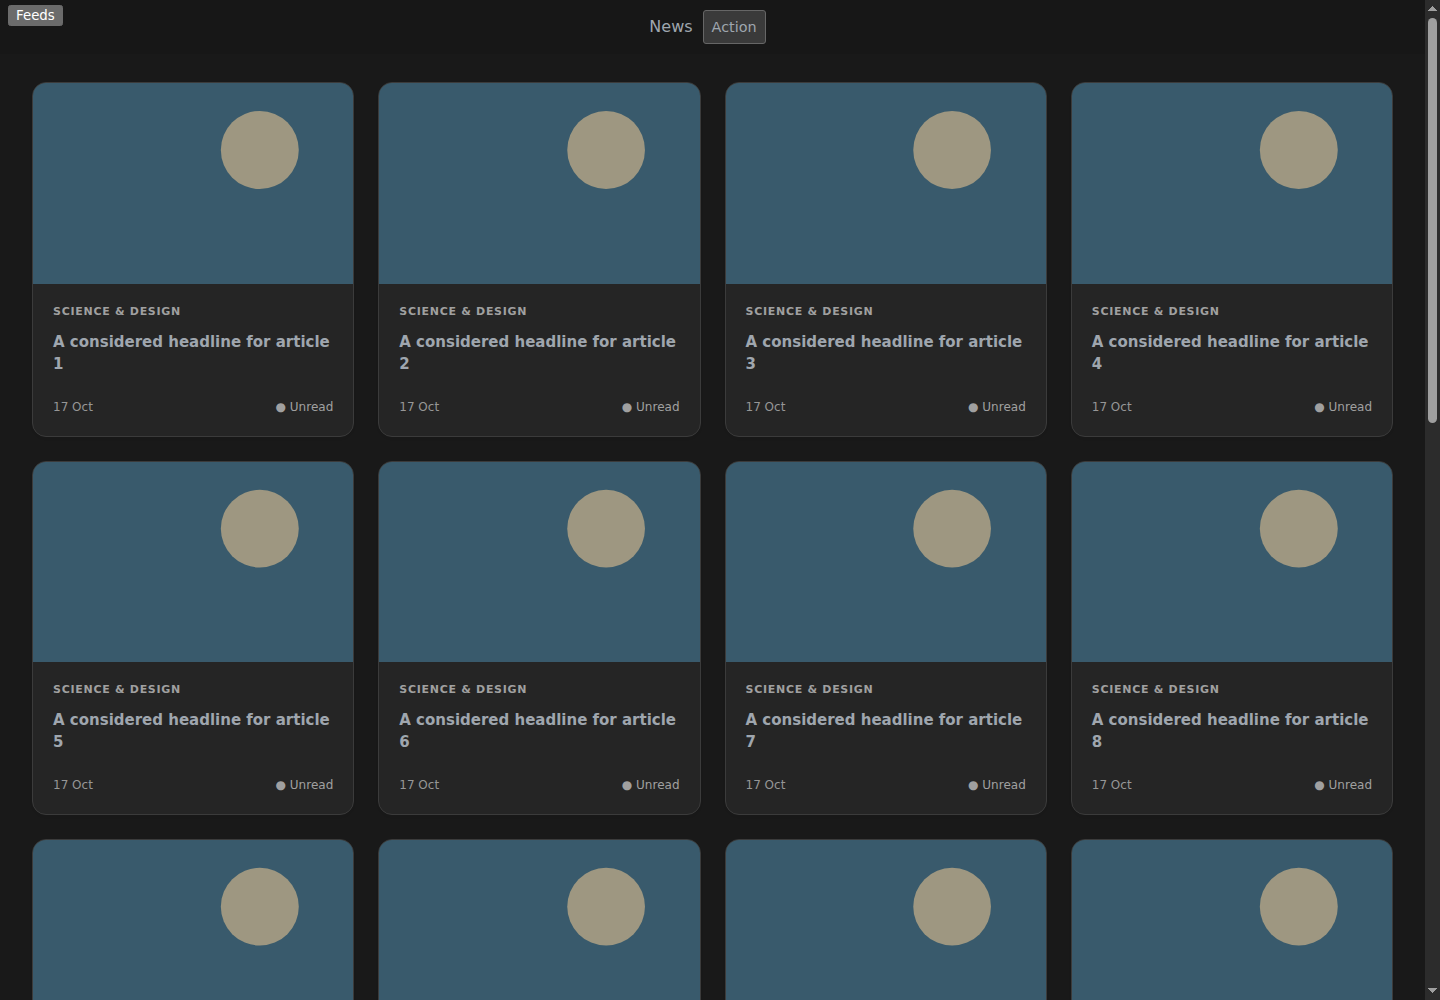
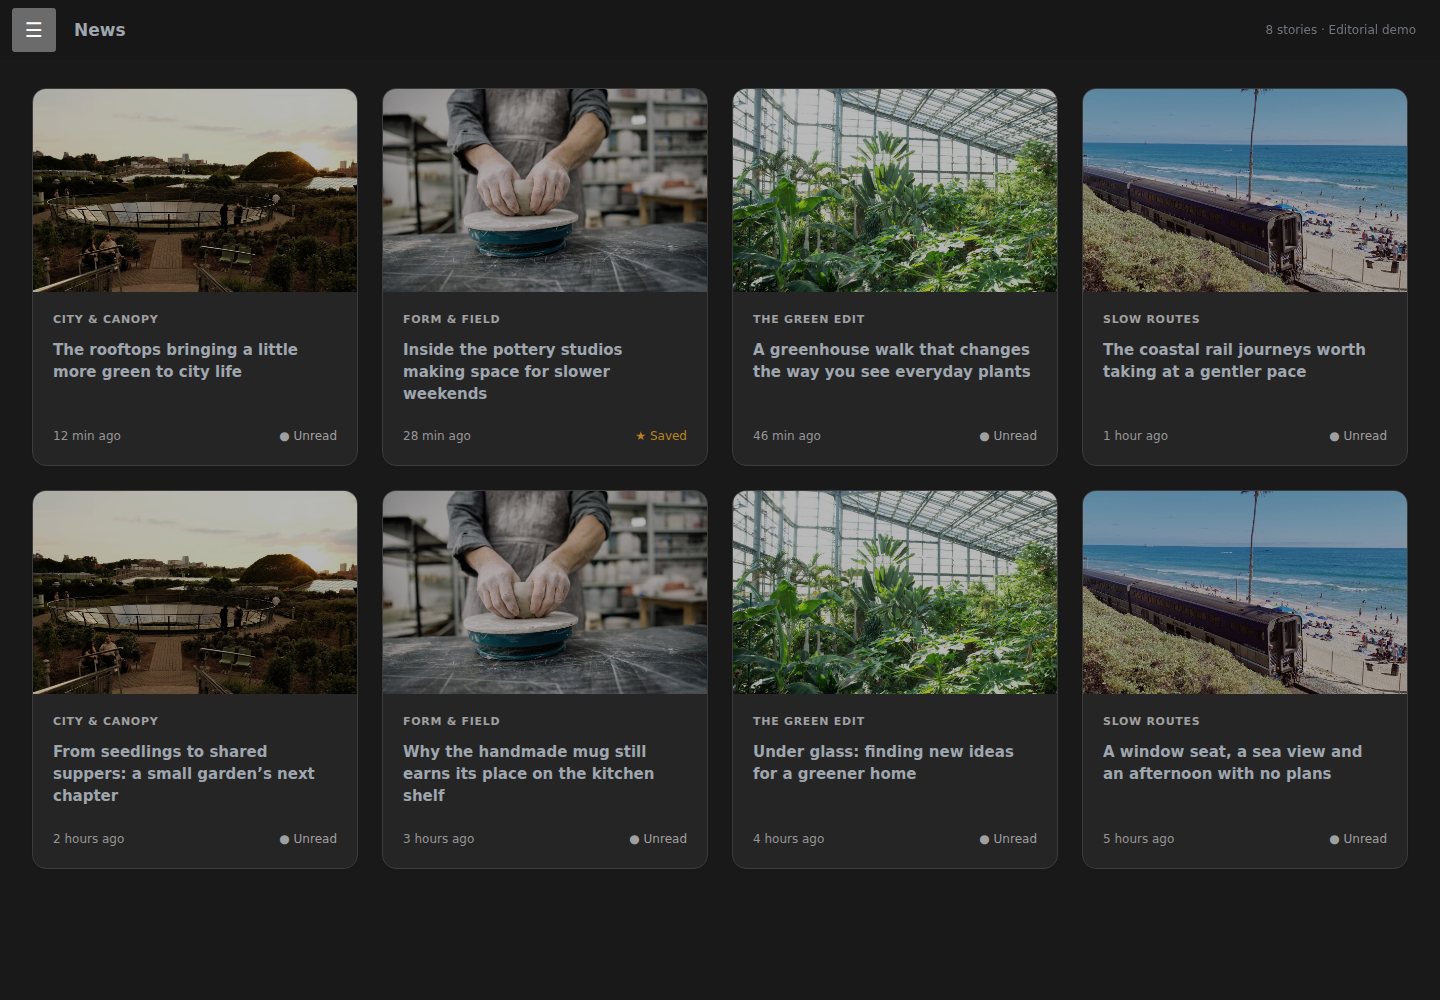
Add editorial demo photos and mobile grid screenshots

diff --git a/docs/demo/demo.js b/docs/demo/demo.js
@@ -1,0 +1,44 @@
+/* Fictional editorial demo. Real extension and native FreshRSS handlers. */
+function initDemo() {
+ const stream = document.querySelector('#stream');
+ const text = (tag, value, className) => {
+  const node = document.createElement(tag); node.textContent = value;
+  if (className) node.className = className; return node;
+ };
+ for (const story of window.demoArticles) {
+  const entry = document.createElement('div');
+  entry.className = 'flux not_read' + (story.id === 2 ? ' favorite' : '');
+  entry.id = 'flux_' + story.id;
+  entry.dataset.entry = story.id;
+  entry.dataset.link = 'https://example.invalid/story/' + story.id;
+  const header = document.createElement('ul'); header.className = 'horizontal-list flux_header';
+  header.dataset.websiteName = story.source;
+  const titleItem = document.createElement('li'); titleItem.className = 'item titleAuthorSummaryDate';
+  const link = text('a', story.title, 'item-element title'); link.href = entry.dataset.link;
+  titleItem.append(link); header.append(titleItem);
+  const content = document.createElement('article'); content.className = 'flux_content';
+  const inner = document.createElement('div'); inner.className = 'content';
+  const readerHeader = document.createElement('header');
+  readerHeader.append(text('div', story.source + ' · ' + story.date, 'website'));
+  const h1 = document.createElement('h1'); h1.className = 'title';
+  const original = text('a', story.title, 'go_website'); original.href = entry.dataset.link;
+  h1.append(original); readerHeader.append(h1);
+  const body = document.createElement('div'); body.className = 'text';
+  const meta = document.createElement('span'); meta.className = 'ig-entry-meta'; meta.hidden = true;
+  Object.assign(meta.dataset, {source: story.source, image: '/demo/images/' + story.image,
+   imageWidth: '1280', date: story.date, datetime: '2026-10-17T10:00:00Z'});
+  const image = document.createElement('img'); image.src = meta.dataset.image;
+  image.alt = 'Illustrative stock photograph; see demo photo credits';
+  body.append(meta, image, ...story.paragraphs.map(p => text('p', p)));
+  inner.append(readerHeader, body); content.append(inner);
+  const footer = document.createElement('footer');
+  const read = text('a', 'Mark read', 'read'); read.href = '/?c=entry&a=read&id=' + story.id;
+  footer.append(read); content.append(footer);
+  entry.append(header, content); stream.append(entry);
+ }
+ init_stream(stream);
+ document.querySelector('#nav_menu_toggle_aside button').onclick = () => toggle_aside_click();
+ document.dispatchEvent(new Event('freshrss:globalContextLoaded'));
+}
+if (document.readyState === 'loading') document.addEventListener('DOMContentLoaded', initDemo);
+else initDemo();

diff --git a/tests/browser.py b/tests/browser.py
@@ -107,6 +107,24 @@ assets = {
 <nav id="nav_entries"><button class="previous_entry">Left</button><button class="up">Up</button><button class="next_entry">Right</button></nav>
 </body></html>''')
 }
+# Editorial screenshots are separate from the deliberately minimal test fixture.
+if '--screenshots' in sys.argv:
+    demo = ROOT / 'docs/demo'
+    demo_core = setup[:setup.index('function article(id)')] + native
+    assets['/demo-core.js'] = ('text/javascript', demo_core.encode())
+    assets['/demo.js'] = ('text/javascript', (
+        'window.demoArticles=' + (demo / 'articles.json').read_text() + ';\n' +
+        (demo / 'demo.js').read_text()).encode())
+    for photo in (demo / 'images').glob('*.jpg'):
+        assets['/demo/images/' + photo.name] = ('image/jpeg', photo.read_bytes())
+    assets['/demo'] = ('text/html', assets['/'][1]
+        .replace(b'<script defer src="/native.js"></script>',
+                 b'<script defer src="/demo-core.js"></script><script defer src="/demo.js"></script>')
+        .replace(b'<button>Feeds</button>', b'<button aria-label="Open feed navigation">&#9776;</button>')
+        .replace(b'<button class="btn btn-important fixture-native-action">Action</button>',
+                 b'<span class="demo-label">8 stories &middot; Editorial demo</span>')
+        .replace(b'</head>', b'<style>.nav_menu {display:flex;align-items:center;gap:18px;min-height:60px;box-sizing:border-box}.demo-label {margin-left:auto;font:12px system-ui;opacity:.65;padding-right:12px}.fixture-native-label {font:650 17px system-ui}.nav_menu #nav_menu_toggle_aside {position:static!important;width:44px;flex:0 0 44px;margin:0}.nav_menu>.fixture-native-label {position:static!important;margin:0}#nav_menu_toggle_aside button {font-size:20px;min-width:44px;min-height:44px}@media(max-width:600px){.demo-label{font-size:10px}.nav_menu{gap:12px}}</style></head>'))
+
 assets['/late'] = (assets['/'][0], assets['/'][1].replace(
     b'<script defer src="/native.js"></script><script defer src="/grid.js"></script>',
     b'<script defer src="/grid.js"></script><script async src="/native-late.js"></script>'))
@@ -219,7 +237,6 @@ try:
     check("getComputedStyle(document.body).backgroundColor==='rgb(25, 25, 25)' && getComputedStyle(document.querySelector('.flux')).backgroundColor==='rgb(37, 37, 37)' && getComputedStyle(document.querySelector('.ig-source')).color==='rgb(160, 160, 160)' && getComputedStyle(document.querySelector('.fixture-native-action')).backgroundColor==='rgb(58, 58, 58)'", 'neutral grey palette renders on surfaces, accents and native actions')
     check("getComputedStyle(document.querySelector('#stream')).gridTemplateColumns.split(' ').length===4", 'four desktop columns with the native FreshRSS theme')
     check("document.documentElement.scrollWidth<=innerWidth", 'desktop has no horizontal overflow')
-    screenshot('desktop.png')
     check("!context.auto_mark_scroll && !context.auto_remove_article", 'page-local scroll/removal protection')
     evaluate("window.scrollTo(0,700); window.beforeY=scrollY; window.contentNode=document.querySelector('#flux_9 > .flux_content'); document.querySelector('#flux_9 .ig-card').click()")
     settle()
@@ -271,8 +288,6 @@ try:
         check("getComputedStyle(document.querySelector('#nav_entries')).display==='none'", f'{width}px native bottom arrow bar stays hidden despite mobile theme override')
         evaluate("document.querySelector('#flux_1 .ig-card').click()")
         settle()
-        if width == 390:
-            screenshot('mobile-reader.png')
         if width <= 600:
             check("Math.abs(document.querySelector('dialog').getBoundingClientRect().width-innerWidth)<2 && Math.abs(document.querySelector('dialog').getBoundingClientRect().height-innerHeight)<2", f'{width}px full-screen reader')
         check("Array.from(document.querySelectorAll('dialog .ig-control')).every(n=>n.getBoundingClientRect().height>=44)", f'{width}px touch target sizes')
@@ -402,6 +417,29 @@ try:
             break
         time.sleep(.05)
     check("document.querySelectorAll('.ig-card').length===24", 'initialisation when asynchronous native core arrives late')
+    if '--screenshots' in sys.argv:
+        command('Fetch.disable')
+        command('Network.enable')
+        command('Network.setBlockedURLs', {'urls': ['https://*', 'http://example.invalid/*']})
+        command('Emulation.setDeviceMetricsOverride', {'width': 1440, 'height': 1000, 'deviceScaleFactor': 1, 'mobile': False})
+        command('Page.navigate', {'url': f'http://127.0.0.1:{server.server_port}/demo'})
+        for _ in range(100):
+            if evaluate("document.querySelectorAll('.ig-card').length===8"):
+                break
+            time.sleep(.05)
+        check("document.querySelectorAll('.ig-card').length===8", 'editorial demo uses eight fictional stories')
+        evaluate("Promise.all([...document.images].map(img=>{img.loading='eager';return img.decode().catch(()=>{});})).then(()=>document.fonts.ready)")
+        check("[...document.querySelectorAll('.ig-media img')].every(img=>img.complete && img.naturalWidth>=1280)", 'four local licensed photos load at full demo resolution')
+        for width, height, filename in [(1440,1000,'desktop.png'), (390,844,'mobile-grid.png'), (430,932,'mobile-grid-wide.png')]:
+            command('Emulation.setDeviceMetricsOverride', {'width': width, 'height': height, 'deviceScaleFactor': 1, 'mobile': width < 600})
+            evaluate('window.scrollTo(0,0)')
+            settle()
+            screenshot(filename)
+        command('Emulation.setDeviceMetricsOverride', {'width': 390, 'height': 844, 'deviceScaleFactor': 1, 'mobile': True})
+        evaluate("document.querySelector('#flux_1 .ig-card').click()")
+        settle()
+        check("document.querySelector('dialog[open]') && document.documentElement.scrollWidth<=innerWidth", 'editorial mobile reader opens without overflow')
+        screenshot('mobile-reader.png')
     assert not errors, errors
     print('PASS no browser JavaScript exceptions', flush=True)
 finally:

diff --git a/README.md b/README.md
@@ -2,7 +2,7 @@
 
 A standalone FreshRSS extension that turns **Normal view** into an image-card grid with a focused article reader. Inspired by Inoreader, built with vanilla JavaScript and CSS, and tested against **FreshRSS 1.30.1**.
 
-![Desktop grid with synthetic demo articles](docs/screenshots/desktop.png)
+![Desktop grid with fictional articles and illustrative stock photos](docs/screenshots/desktop.png)
 
 ## Features
 
@@ -18,9 +18,9 @@ A standalone FreshRSS extension that turns **Normal view** into an image-card gr
 - Neutral monogram artwork for image-less articles.
 - Native pagination and dynamically loaded articles, without a framework or build step.
 
-<img src="docs/screenshots/mobile-reader.png" alt="Mobile reader displaying a synthetic demo article" width="300">
+<img src="docs/screenshots/mobile-grid.png" alt="Mobile card list at 390 pixels wide" width="260"> <img src="docs/screenshots/mobile-grid-wide.png" alt="Two-column mobile card list at 430 pixels wide" width="286"> <img src="docs/screenshots/mobile-reader.png" alt="Full-screen mobile article reader" width="260">
 
-Screenshots contain generated demo content, not personal feeds or account data.
+Mobile card lists at two widths, followed by the article reader. Screenshots use fictional articles and four illustrative stock photos. See [photo credits and demo details](docs/demo/README.md). No personal feeds or account data are shown.
 
 ## Requirements
 
@@ -91,7 +91,7 @@ The implementation uses FreshRSS's `entry_before_display` hook, native article-o
 - Cards use existing image URLs and send no page referrer. Those image hosts can still receive ordinary browser requests.
 - Read/bookmark operations continue through the current FreshRSS installation and its native CSRF handling.
 - AI summaries are never triggered automatically. An existing summary extension can still contact its configured provider when you explicitly use it.
-- This repository contains extension source and synthetic test fixtures only. Local backups, user CSS/JS, account data, logs and credentials are excluded.
+- This repository contains extension source, fictional test/demo articles and credited stock photos. Local backups, user CSS/JS, account data, logs and credentials are excluded.
 
 ## Disable or uninstall
 
@@ -125,7 +125,7 @@ python3 -m venv .venv
 
 Set `FRESHRSS_CONTAINER` or `CHROMIUM_BINARY` if your container/executable has a different name. The browser test reads the container's native JavaScript and theme files; it does **not** read user configuration, custom CSS or actual feed contents. A localhost fixture serves synthetic articles, state responses are mocked, and synthetic publisher image requests are fulfilled locally.
 
-Coverage includes read/bookmark request handling, dynamic articles, modal DOM identity, scroll/focus restoration, sidebar controls, touch gestures, mobile layout, image resolution and error fallback. Pass `--screenshots` to regenerate the demo screenshots from those fixtures.
+Coverage includes read/bookmark request handling, dynamic articles, modal DOM identity, scroll/focus restoration, sidebar controls, touch gestures, mobile layout, image resolution and error fallback. Pass `--screenshots` to regenerate screenshots from the separate [editorial demo](docs/demo/README.md) after the tests pass.
 
 ## Known limits
 
@@ -136,4 +136,4 @@ Coverage includes read/bookmark request handling, dynamic articles, modal DOM id
 
 ## Licence
 
-[MIT](LICENSE). This is an independent community extension, unaffiliated with Inoreader or FreshRSS.
+Extension code and original demo text: [MIT](LICENSE). Bundled stock photos and photographic material in screenshots retain the [Pexels licence](https://www.pexels.com/license/); see [photo credits](docs/demo/README.md). This is an independent community extension, unaffiliated with Inoreader or FreshRSS.

diff --git a/docs/demo/README.md b/docs/demo/README.md
@@ -1,0 +1,28 @@
+# Editorial screenshot demo
+
+All headlines, publication names and article copy in `articles.json` are fictional. Photos are illustrative stock imagery, not evidence of the events described. No personal feeds, accounts or provider calls are involved, and no endorsement is implied.
+
+The demo uses the actual extension CSS/JavaScript and installed FreshRSS core handlers, with local mock state responses. Four bundled photos are reused across eight articles. Everything is served on localhost when generating screenshots; no image hotlinking is needed.
+
+## Photo credits and licence
+
+The following photos remain under the [Pexels licence](https://www.pexels.com/license/), **not the repository's MIT licence**. This also applies to the photographic material incorporated in the screenshots. The downloaded copies are resized to 1280 pixels wide; the interface applies its usual display-only darkening and crops card thumbnails.
+
+| File | Photographer | Original photo |
+| --- | --- | --- |
+| `images/rooftop-garden.jpg` | Krystian B | [Urban garden rooftop at sunset](https://www.pexels.com/photo/urban-garden-rooftop-at-sunset-with-people-relaxing-37731387/) |
+| `images/pottery-workshop.jpg` | Yan Krukau | [Hands of a potter working with clay](https://www.pexels.com/photo/hands-of-a-potter-working-with-clay-6611351/) |
+| `images/greenhouse.jpg` | Ryutaro Tsukata | [Plants in a glass greenhouse](https://www.pexels.com/photo/green-plants-growing-in-modern-glass-greenhouse-5472387/) |
+| `images/coastal-railway.jpg` | Lindsey Garrett | [Train beside the beach](https://www.pexels.com/photo/a-moving-train-on-track-beside-the-beach-13993407/) |
+
+Licence checked on 17 October 2026. Pexels permits free use and modification; its restrictions still apply. These assets support the interface demo and are not offered as a stock-photo collection.
+
+## Regenerate
+
+With the browser-test prerequisites and a FreshRSS 1.30.1 container available, run:
+
+```sh
+.venv/bin/python tests/browser.py --screenshots
+```
+
+The browser suite runs first, then captures the editorial demo at desktop, narrow mobile and wider mobile sizes, plus the mobile reader. Mobile screenshots use Chromium emulation, not a physical iPhone.
